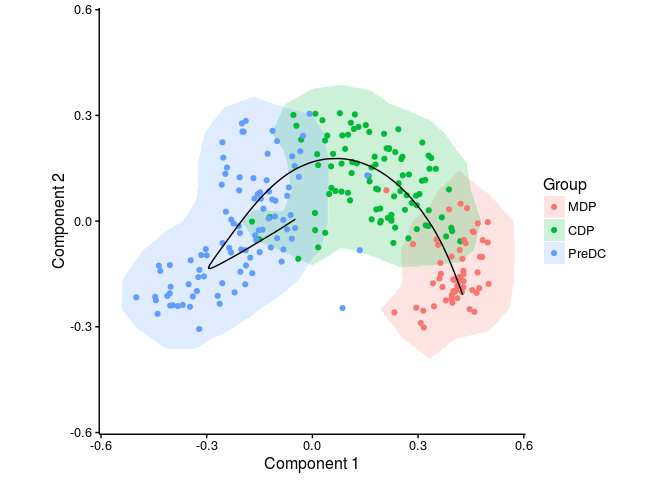
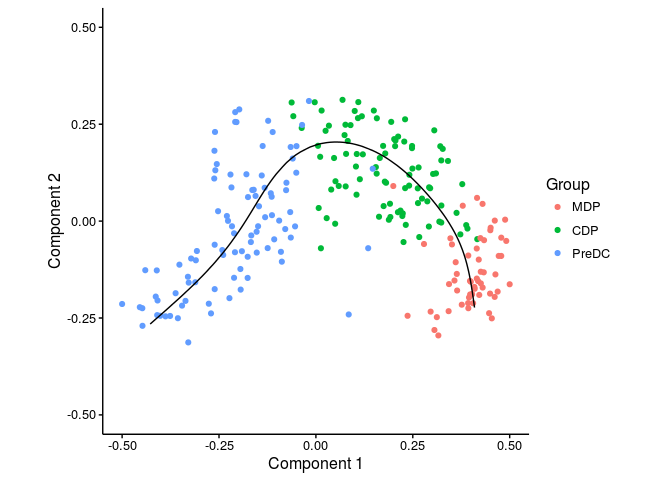
improved readme

diff --git a/README.md b/README.md
@@ -8,9 +8,12 @@ SCORPIUS an unsupervised approach for inferring developmental chronologies from 
 
 -   It accurately reconstructs trajectories for a wide variety of dynamic cellular processes. The performance was evaluated using a new, quantitative evaluation pipeline, comparing the performance of current state-of-the-art techniques on 10 publicly available single-cell RNA sequencing datasets.
 
--   It identifies marker genes. By automatically identifying possible marker genes relevant for the dynamic process under investigation, SCORPIUS speeds up
+-   It identifies marker genes. By automatically identifying possible marker genes relevant for the dynamic process under investigation, SCORPIUS speeds up knowledge discovery.
 
 -   It is fully unsupervised. Prior knowledge of the relevant marker genes or cellular states of individual cells is not required, and thus the conclusions drawn from the SCORPIUS output are unbiased.
+
+Installing SCORPIUS
+-------------------
 
 You can install the latest version from github with
 
@@ -48,6 +51,8 @@ More vignettes with more elaborate examples are also available:
 Minimal example
 ---------------
 
+This section describes the main workflow of SCORPIUS without going in depth in the R code. For a more detailed explanation, see the `ginhoux` vignette.
+
 To start using SCORPIUS, simply write:
 
 ``` r
@@ -58,30 +63,39 @@ The `ginhoux` dataset (See Schlitzer et al. 2015) contains 248 cell progenitors 
 
 ``` r
 data(ginhoux)
+expression <- ginhoux$expression
+group.name <- ginhoux$sample.info$group.name
 ```
 
 With the following code, SCORPIUS reduces the dimensionality of the dataset and provides a visual overview of the dataset. In this plot, cells that are similar in terms of expression values will be placed closer together than cells with dissimilar expression values.
 
 ``` r
-dist <- correlation.distance(ginhoux$expression)
-space <- reduce.dimensionality(dist)
-group.name <- ginhoux$sample.info$group.name
-draw.trajectory.plot(space, group.name, contour = T)
+dist <- correlation.distance(expression)
+
+filt <- outlier.filter(dist)
+expression <- expression[filt, ]
+group.name <- group.name[filt]
+dist <- dist[filt, filt]
+
+space <- reduce.dimensionality(dist, ndim=2)
+draw.trajectory.plot(space, group.name)
 ```
 
 ![](README_files/figure-markdown_github/reduce%20dimensionality-1.png)
- To infer and visualise a trajectory through these cells, run:
+
+To infer and visualise a trajectory through these cells, run:
 
 ``` r
 traj <- infer.trajectory(space)
-draw.trajectory.plot(space, group.name, traj$final.path, contour = T)
+draw.trajectory.plot(space, group.name, traj$final.path)
 ```
 
 ![](README_files/figure-markdown_github/infer%20trajectory-1.png)
- Finally, to identify and visualise candidate marker genes, execute the following code:
+
+Finally, to identify and visualise candidate marker genes, execute the following code:
 
 ``` r
-tafs <- find.trajectory.aligned.features(ginhoux$expression, traj$time)
+tafs <- find.trajectory.aligned.features(expression, traj$time)
 expr.tafs <- tafs$smooth.x[,tafs$tafs]
 modules <- extract.modules(expr.tafs)
 draw.trajectory.heatmap(expr.tafs, traj$time, group.name, modules)
@@ -95,5 +109,8 @@ Related approaches
 -   [Monocle](https://bioconductor.org/packages/release/bioc/html/monocle.html)
 -   [Waterfall](http://dx.doi.org/10.1016/j.stem.2015.07.013)
 -   [Embeddr](https://github.com/kieranrcampbell/embeddr)
+
+References
+----------
 
 Schlitzer, Andreas, V Sivakamasundari, Jinmiao Chen, Hermi Rizal Bin Sumatoh, Jaring Schreuder, Josephine Lum, Benoit Malleret, et al. 2015. “Identification of cDC1- and cDC2-committed DC progenitors reveals early lineage priming at the common DC progenitor stage in the bone marrow.” *Nature Immunology* 16 (7): 718–26. doi:[10.1038/ni.3200](http://dx.doi.org/10.1038/ni.3200).
